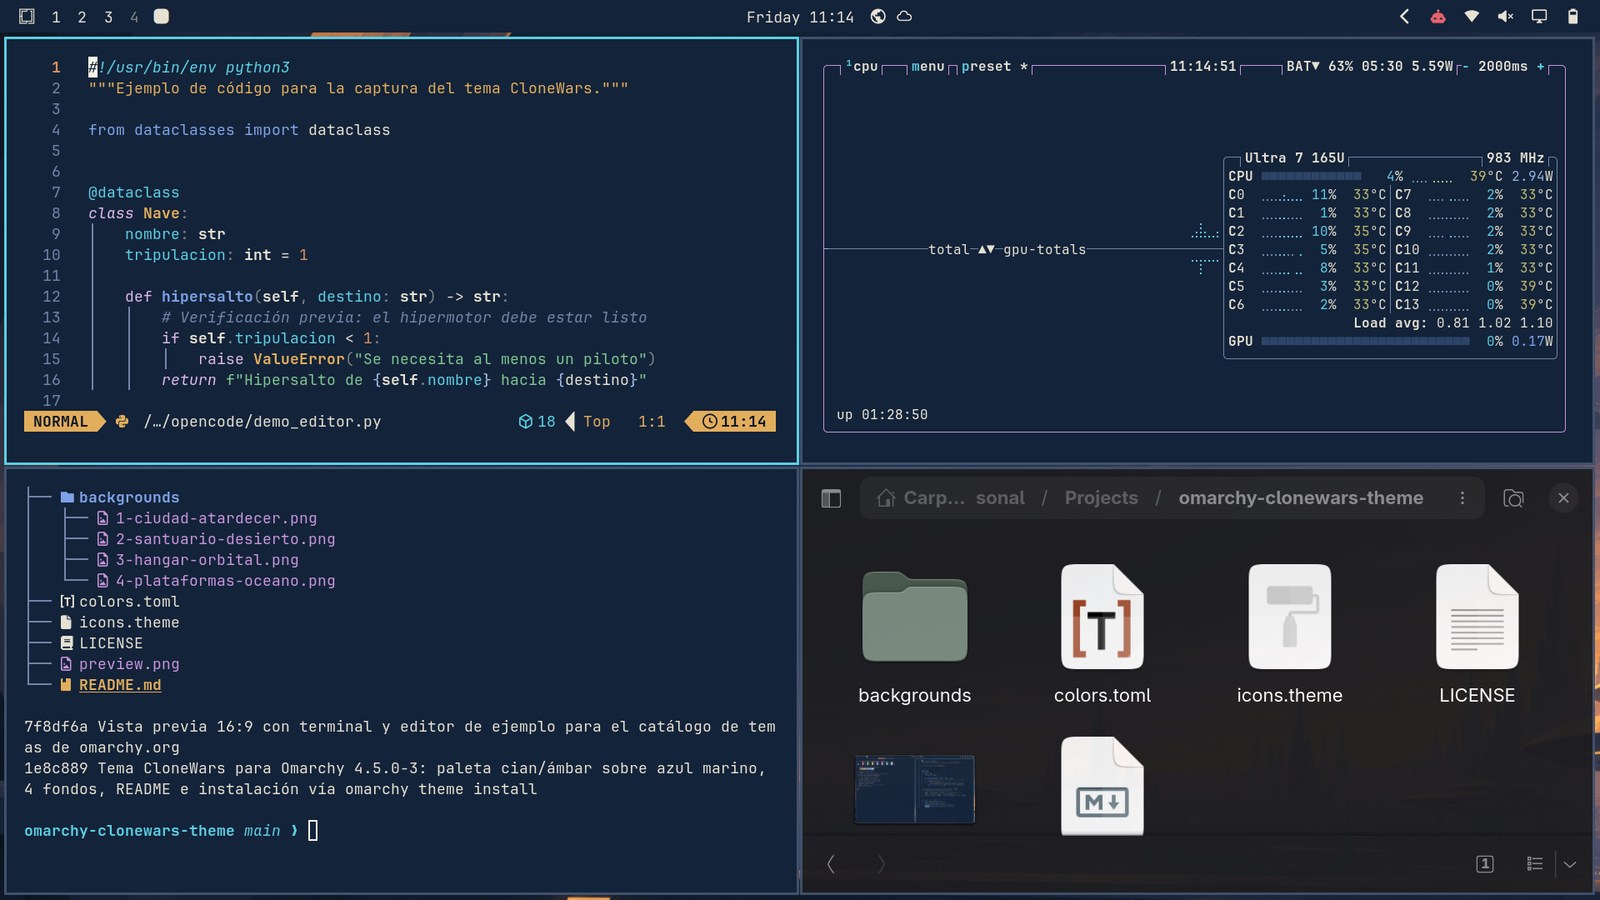
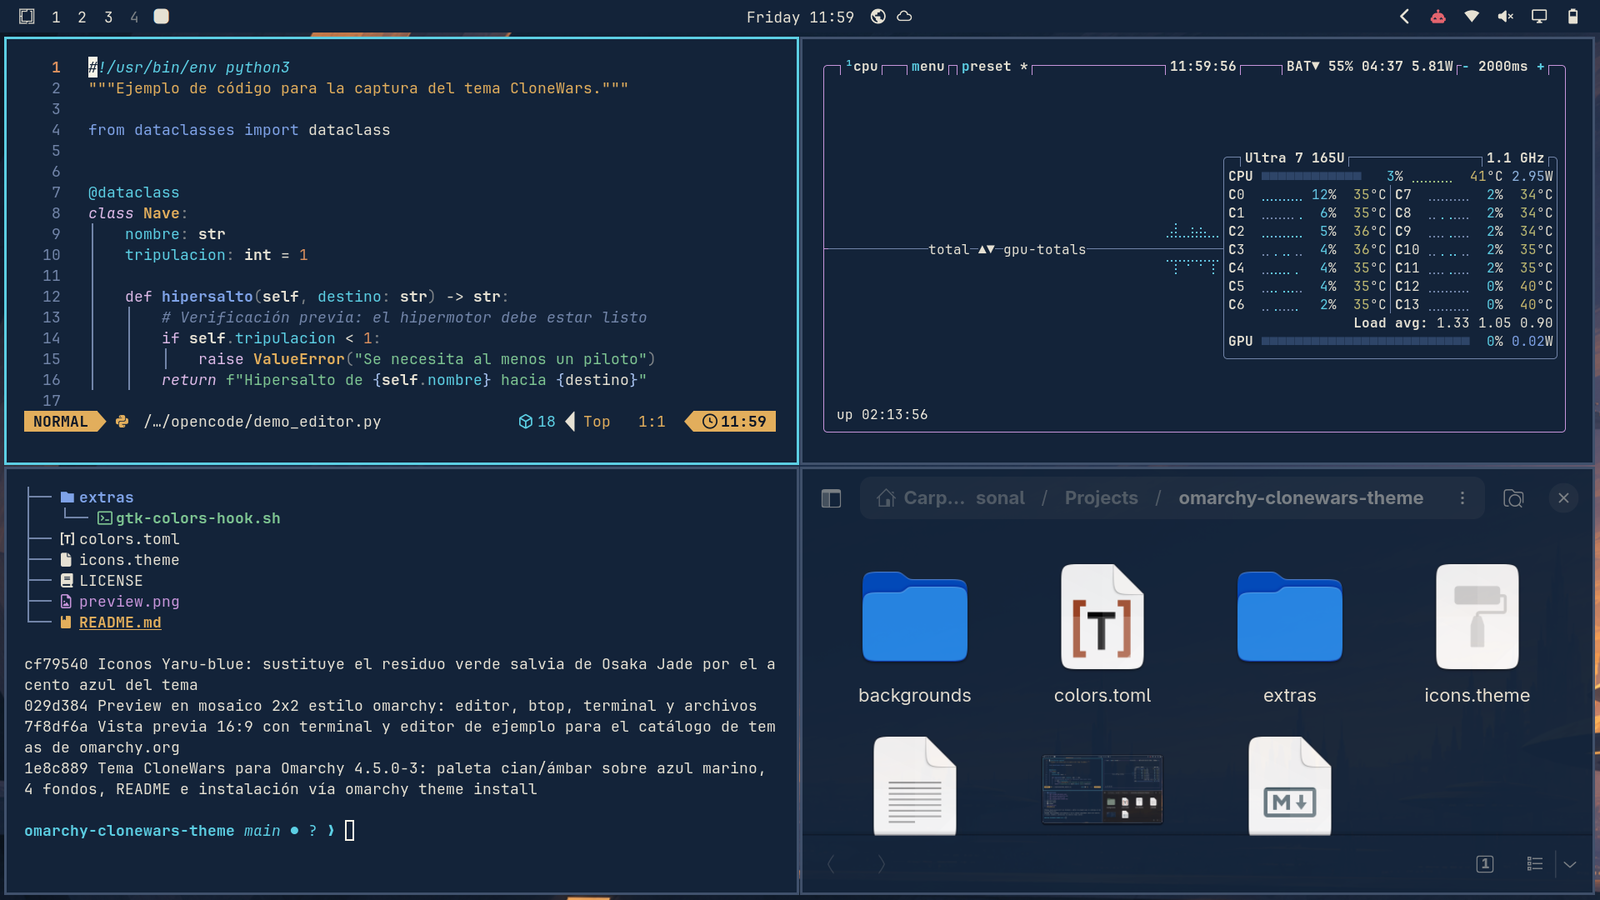
Hook opcional GTK para apps libadwaita + preview actualizada con iconos Yaru-blue

diff --git a/README.md b/README.md
@@ -101,6 +101,16 @@ Al cambiar de vuelta, Omarchy restaura automáticamente el fondo que tenías en 
 
 Para desinstalar CloneWars por completo: `omarchy theme remove clonewars`.
 
+## Personalización opcional: apps GTK (Archivos, etc.)
+
+Omarchy colorea las apps GTK (Nautilus, diálogos…) con `Adwaita-dark` neutro + los iconos del tema. Si quieres que el fondo de esas ventanas use también el azul marino del tema, instala el hook opcional incluido, que regenera los colores libadwaita (`~/.config/gtk-4.0/gtk.css`) en cada cambio de tema a partir del `colors.toml` activo:
+
+```bash
+omarchy hook install theme-set ~/.config/omarchy/hooks/theme-set.d/gtk-colors.sh
+```
+
+Si el script aún no está en tu máquina, cópialo primero desde [`extras/gtk-colors-hook.sh`](extras/gtk-colors-hook.sh). Tras instalarlo, ejecuta `omarchy theme set clonewars` (o cualquier tema) para generar el CSS y abre de nuevo la app GTK. Al cambiar a otro tema, el hook lo adapta automáticamente; el hook es una personalización del usuario y no forma parte de los archivos que Omarchy aplica desde el repositorio.
+
 ## Limitaciones conocidas
 
 - **TUIs basadas en el terminal** (opencode, lazygit, etc.) heredan la paleta al arrancar; si ya estaban abiertas durante el cambio de tema, ciérralas y ábrelas de nuevo para ver la paleta nueva.
